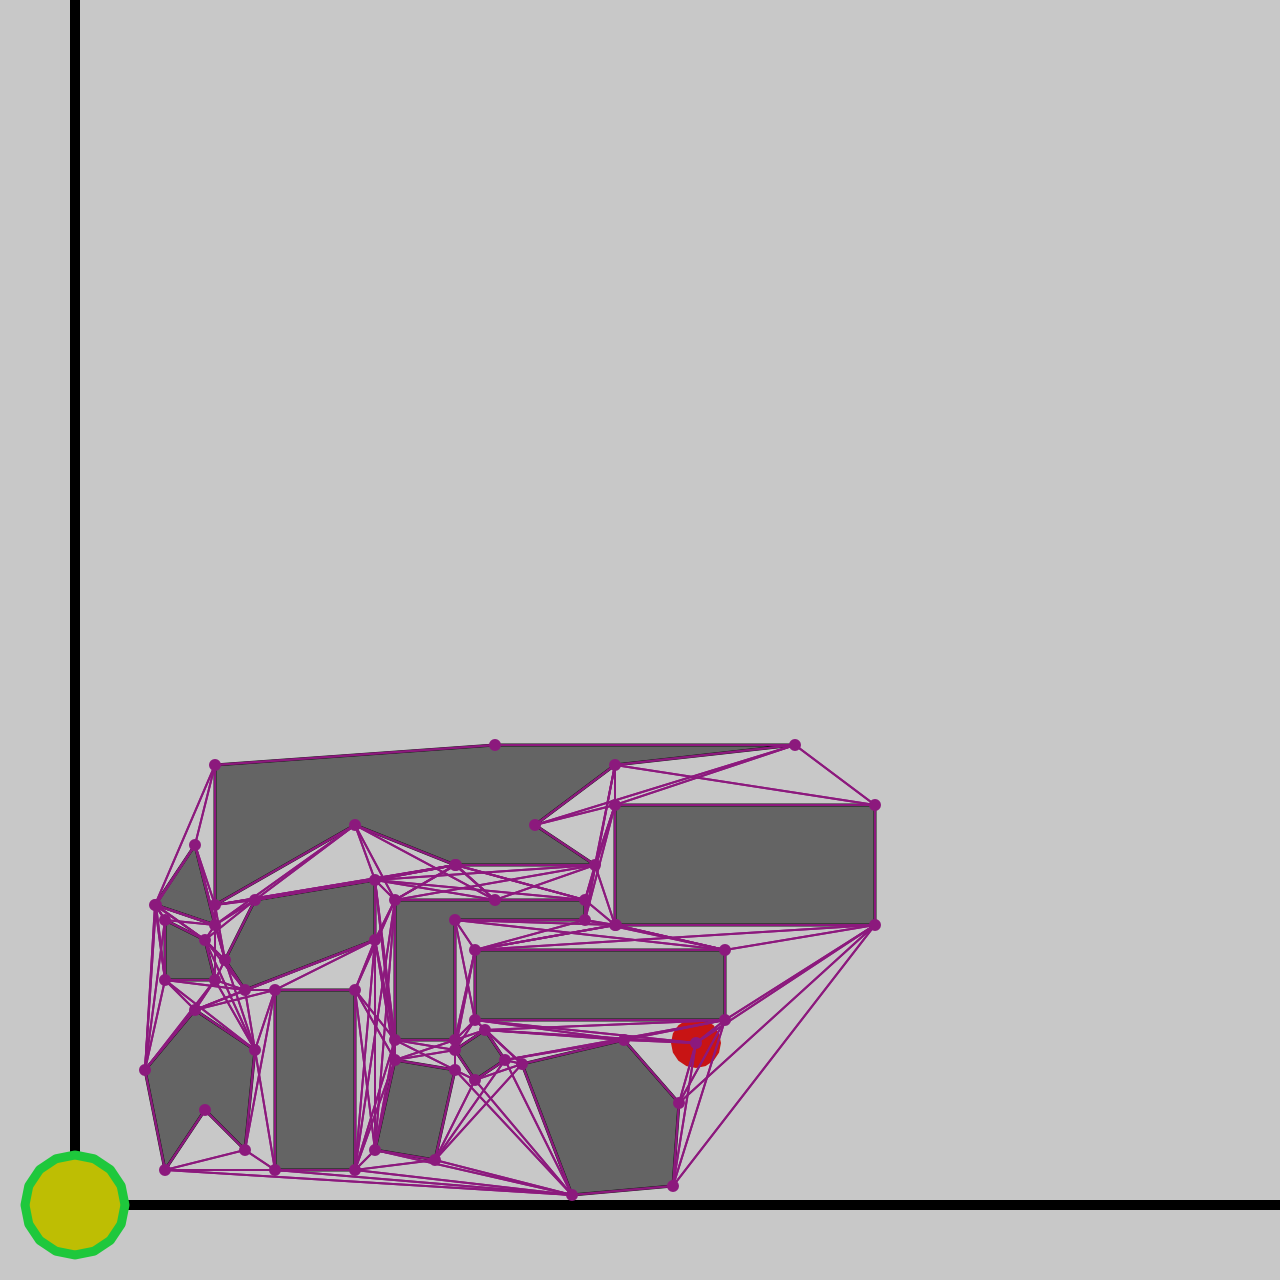
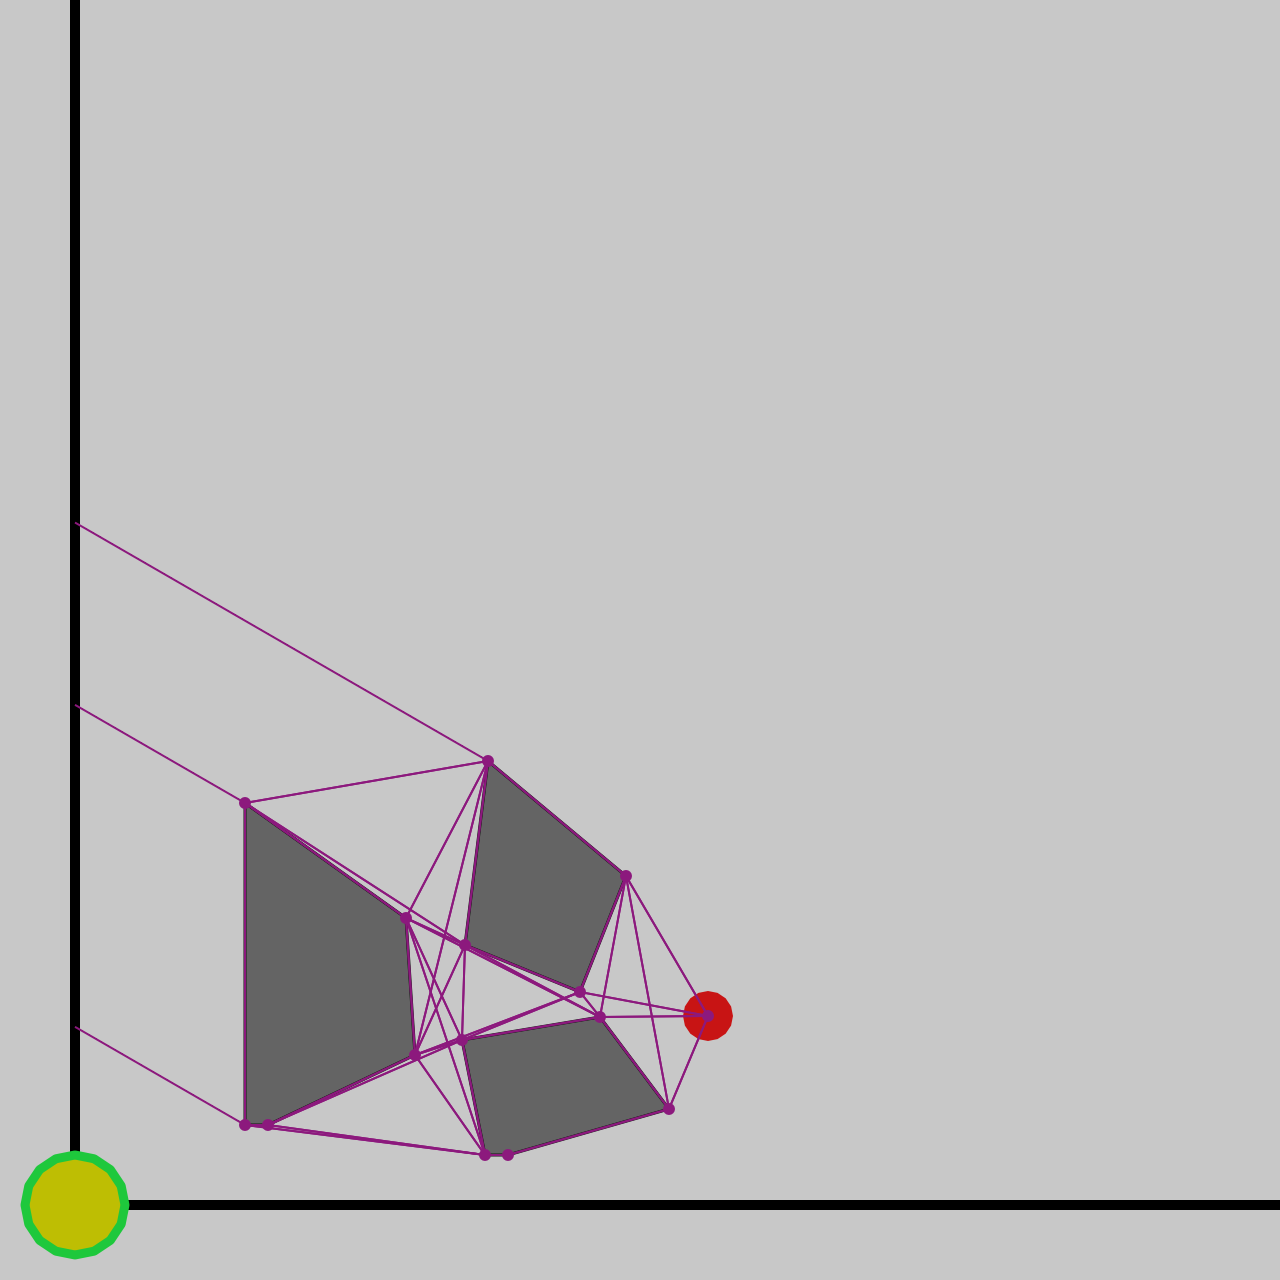
minor changes

Changed region(s): [[0.0938, 0.5625, 0.6875, 0.9375]]

diff --git a/lisa_rennt/graph/createGraph.go b/lisa_rennt/graph/createGraph.go
@@ -6,17 +6,24 @@ import (
 	"strconv"
 )
 
+const (
+	lisaVel_KMH = 15.0
+	busVel_KMH  = 30.0
+)
+
 func Create(home lib.Vertex, polygons []*lib.Polygon) lib.Graph {
 	for _, p := range polygons {
 		p.ArrangeClockwise()
 	}
 
 	g := lib.Graph{}
-	g.Nodes = append(g.Nodes, &lib.Node{X: home.X, Y: home.Y, ID: "start"})
+	g.Nodes = append(g.Nodes, &lib.Node{Vertex: &lib.Vertex{X: home.X, Y: home.Y}})
 	g.Nodes = append(g.Nodes, verticesToNodes(polygons)...)
 
 	var borders []*lib.Line
 	borders = append(borders, getAllLines(polygons)...)
+
+	idealAngle := math.Atan(lisaVel_KMH / math.Sqrt(math.Pow(busVel_KMH, 2)-math.Pow(lisaVel_KMH, 2)))
 
 	for _, n := range g.Nodes {
 		for _, o := range g.Nodes {
@@ -28,11 +35,17 @@ func Create(home lib.Vertex, polygons []*lib.Polygon) lib.Graph {
 					n.Edges = append(n.Edges, &lib.Edge{Node: o, Weight: distance(n, o)})
 				}
 			} else {
-				pi, _ := strconv.Atoi(n.ID)
+				pi, _ := strconv.Atoi(n.Info["p"])
 				if canReach(n, o, borders) && canReachP(n, o, polygons[pi]) {
 					n.Edges = append(n.Edges, &lib.Edge{Node: o, Weight: distance(n, o)})
 				}
 			}
+		}
+		// check if can reach optimal busY
+		idealY := n.Y + math.Tan(idealAngle)*n.X
+		borderNode := lib.Node{Vertex: &lib.Vertex{X: 0, Y: idealY}}
+		if canReach(n, &borderNode, borders) {
+			n.Edges = append(n.Edges, &lib.Edge{Node: &borderNode, Weight: 0}) // TODO: add real weight
 		}
 	}
 
@@ -43,7 +56,7 @@ func canReach(n *lib.Node, o *lib.Node, borders []*lib.Line) bool {
 	ray := lib.Line{A: lib.Vertex{X: n.X, Y: n.Y}, B: lib.Vertex{X: o.X, Y: o.Y}}
 
 	for _, b := range borders {
-		if segmentsHaveCommandPoint(&ray, b) {
+		if isNodeOnLine(n, b) || isNodeOnLine(o, b) {
 			continue
 		}
 
@@ -87,6 +100,7 @@ func canReachP(n *lib.Node, o *lib.Node, p *lib.Polygon) bool {
 	if canReach {
 		return true
 	}
+	prevV = lib.Vertex{X: 0, Y: 0}
 	p.ForAllVertices(lib.Vertex{X: n.X, Y: n.Y}, true, f2)
 	return canReach
 }
@@ -96,12 +110,11 @@ func distance(n *lib.Node, o *lib.Node) float64 {
 }
 
 func belongToSamePolygon(n *lib.Node, o *lib.Node) bool {
-	return n.ID == o.ID
+	return n.Info["p"] == o.Info["p"]
 }
 
-func segmentsHaveCommandPoint(l1 *lib.Line, l2 *lib.Line) bool {
-	return l1.A == l2.A || l1.A == l2.B ||
-		l1.B == l2.A || l1.B == l2.B
+func isNodeOnLine(n *lib.Node, l *lib.Line) bool {
+	return n.Info["p"] == l.Info["p"] && (n.Info["v"] == l.Info["v1"] || n.Info["v"] == l.Info["v2"])
 }
 
 func areNeightbors(n *lib.Node, o *lib.Node, vertices []lib.Vertex) bool {
@@ -121,13 +134,14 @@ func areNeightbors(n *lib.Node, o *lib.Node, vertices []lib.Vertex) bool {
 func getAllLines(polygons []*lib.Polygon) []*lib.Line {
 	var lines []*lib.Line
 
-	for _, p := range polygons {
+	for ip, p := range polygons {
 		for i := 0; i < len(p.Vertices); i++ {
 			j := i + 1
 			if j >= len(p.Vertices) {
 				j = 0
 			}
-			lines = append(lines, &lib.Line{A: p.Vertices[i], B: p.Vertices[j]})
+			lines = append(lines, &lib.Line{A: p.Vertices[i], B: p.Vertices[j], Info: map[string]string{"p": strconv.Itoa(ip),
+				"v1": strconv.Itoa(i), "v2": strconv.Itoa(j)}})
 		}
 	}
 
@@ -137,9 +151,8 @@ func getAllLines(polygons []*lib.Polygon) []*lib.Line {
 func verticesToNodes(polygons []*lib.Polygon) []*lib.Node {
 	var nodes []*lib.Node
 	for ip, p := range polygons {
-		for _, v := range p.Vertices {
-			id := strconv.Itoa(ip)
-			nodes = append(nodes, &lib.Node{X: v.X, Y: v.Y, ID: id})
+		for iv, _ := range p.Vertices {
+			nodes = append(nodes, &lib.Node{Vertex: &polygons[ip].Vertices[iv], Info: map[string]string{"p": strconv.Itoa(ip), "v": strconv.Itoa(iv)}})
 		}
 	}
 

diff --git a/lisa_rennt/lib/intersection.go b/lisa_rennt/lib/intersection.go
@@ -11,9 +11,9 @@ func LineSegementIntersection(u *Line, v *Line) bool {
 }
 
 func isSegmentLineCollision(line *Line, segment *Line) bool {
-	transLine := Line{Vertex{}, Vertex{line.B.X - line.A.X, line.B.Y - line.A.Y}}
+	transLine := Line{Vertex{}, Vertex{line.B.X - line.A.X, line.B.Y - line.A.Y}, nil}
 	transSegment := Line{Vertex{segment.A.X - line.A.X, segment.A.Y - line.A.Y},
-		Vertex{segment.B.X - line.A.X, segment.B.Y - line.A.Y}}
+		Vertex{segment.B.X - line.A.X, segment.B.Y - line.A.Y}, nil}
 	dA := dotProd(transLine.B, transSegment.A)
 	dB := dotProd(transLine.B, transSegment.B)
 

diff --git a/lisa_rennt/LisaRennt.go b/lisa_rennt/LisaRennt.go
@@ -30,7 +30,7 @@ func main() {
 	Gc.Translate(rendering.BUSSTOP_RADIUS*1.5, -(float64(rendering.HEIGHT) - rendering.BUSSTOP_RADIUS*1.5))
 
 	// Read-File
-	Obstacles, Home = file.Read("./lisa_rennt/examples/lisarennt5.txt")
+	Obstacles, Home = file.Read("./lisa_rennt/examples/lisarennt2.txt")
 
 	rendering.RenderEnvironment(Gc)
 	rendering.RenderHome(Gc, Home)

diff --git a/lisa_rennt/lib/Graph.go b/lisa_rennt/lib/Graph.go
@@ -5,10 +5,9 @@ type Graph struct {
 }
 
 type Node struct {
-	X float64
-	Y float64
+	*Vertex
 
-	ID string
+	Info map[string]string
 
 	Edges []*Edge
 
@@ -19,7 +18,7 @@ type Node struct {
 type Edge struct {
 	*Node
 
-	ID string
+	Info map[string]string
 
 	Weight float64
 }

diff --git a/lisa_rennt/Tester.go b/lisa_rennt/Tester.go
@@ -1,5 +1,9 @@
 package main
 
-func main2() {
+import "BwInf37_runde2/lisa_rennt/lib"
 
+func main2() {
+	v := &lib.Vertex{1, 2}
+	v2 := v
+	println(v == v2)
 }

diff --git a/lisa_rennt/lib/Line.go b/lisa_rennt/lib/Line.go
@@ -3,6 +3,8 @@ package lib
 type Line struct {
 	A Vertex
 	B Vertex
+
+	Info map[string]string
 }
 
 /*func (l *Line) SortForX() {
